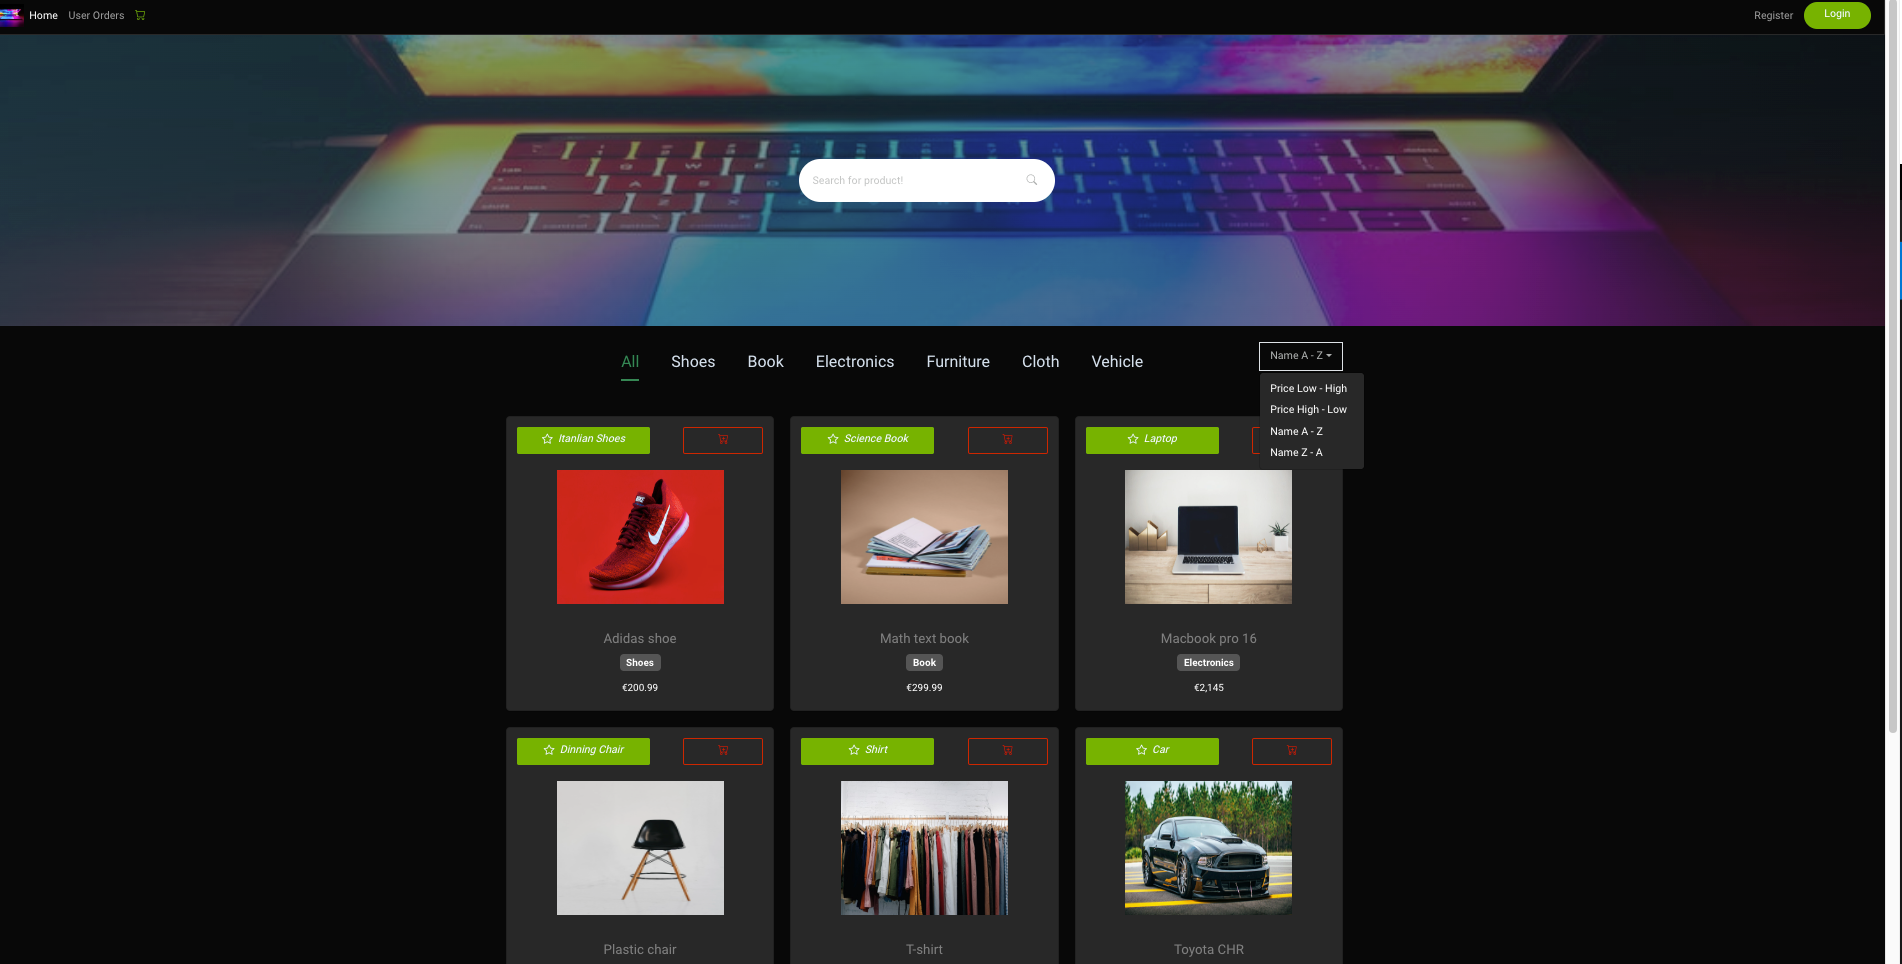
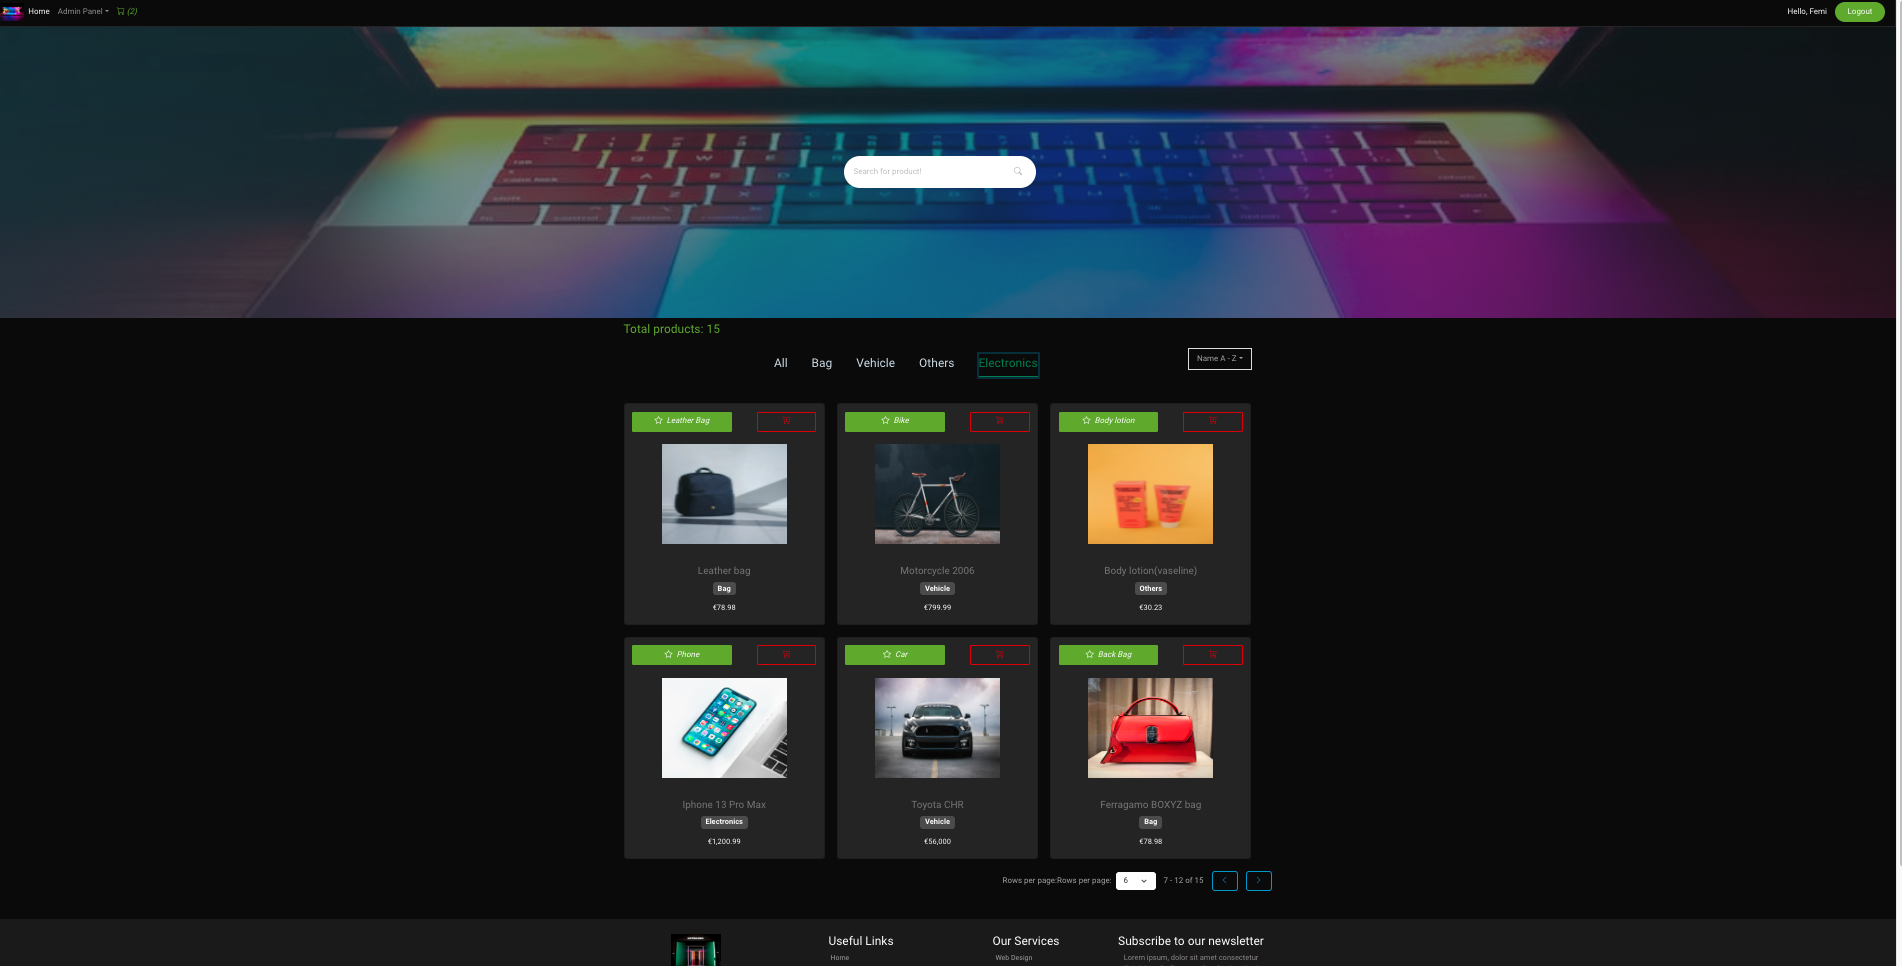
updated  pagination

Changed region(s): [[0.0, 0.0, 1.0, 1.0], [0.8065, 0.1245, 0.8375, 0.1556]]

diff --git a/frontend/src/Components/Product/ProductList.tsx b/frontend/src/Components/Product/ProductList.tsx
@@ -171,7 +171,7 @@ const ProductList = () => {
     // for dropdown page option change
     else if (direction === "change") {
       setPageOptions({
-        pageSize: pageSize ? pageSize : 6,
+        pageSize: pageSize ? pageSize : 5,
         pageNumber: 1,
       });
     }
@@ -230,28 +230,6 @@ const ProductList = () => {
               ))}
             </ul>
           </li>
-          {/* <li className="nav-item dropdown" style={{ marginLeft: "auto" }}>
-            <div
-              className="nav-link dropdown-toggle text-dark fs-6 border"
-              role="button"
-              data-bs-toggle="dropdown"
-              aria-expanded="false"
-            >
-              Select Category
-            </div>
-            <ul className="dropdown-menu">
-              {categoryList.map((categoryName, index) => (
-                <li
-                  className={`nav-link p-0 pb-2 custom-buttons fs-5 dropdown-item ${
-                    index === 0 && "active"
-                  } `}
-                  onClick={() => handleCategoryClick(index)}
-                >
-                  {categoryName}
-                </li>
-              ))}
-            </ul>
-          </li> */}
         </ul>
       </div>
       {(data?.apiResponse.result.length || products.length) > 0 &&
@@ -260,6 +238,12 @@ const ProductList = () => {
             <ProductCard product={product} key={index} />
           )
         )}
+      {/* {(products.length) > 0 &&
+        (products).map(
+          (product: ProductType, index: number) => (
+            <ProductCard product={product} key={index} />
+          )
+        )} */}
       {/*  */}
       <div className="d-flex mx-5 mt-4 justify-content-end align-items-center">
         <div>Rows per page: </div>
